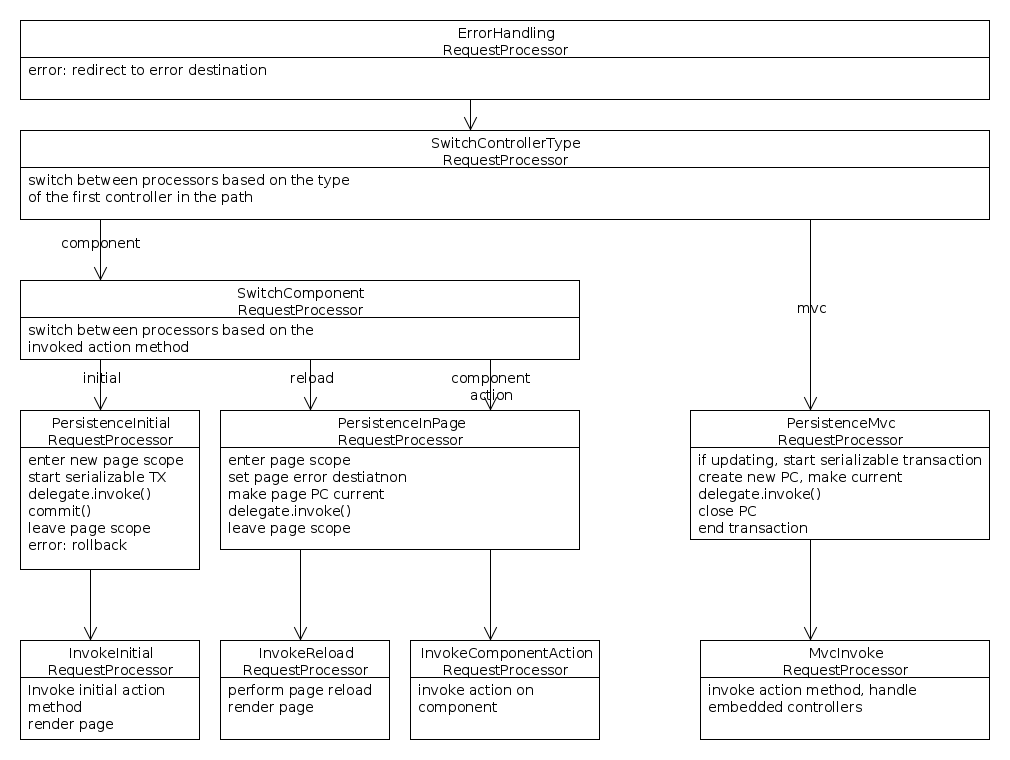
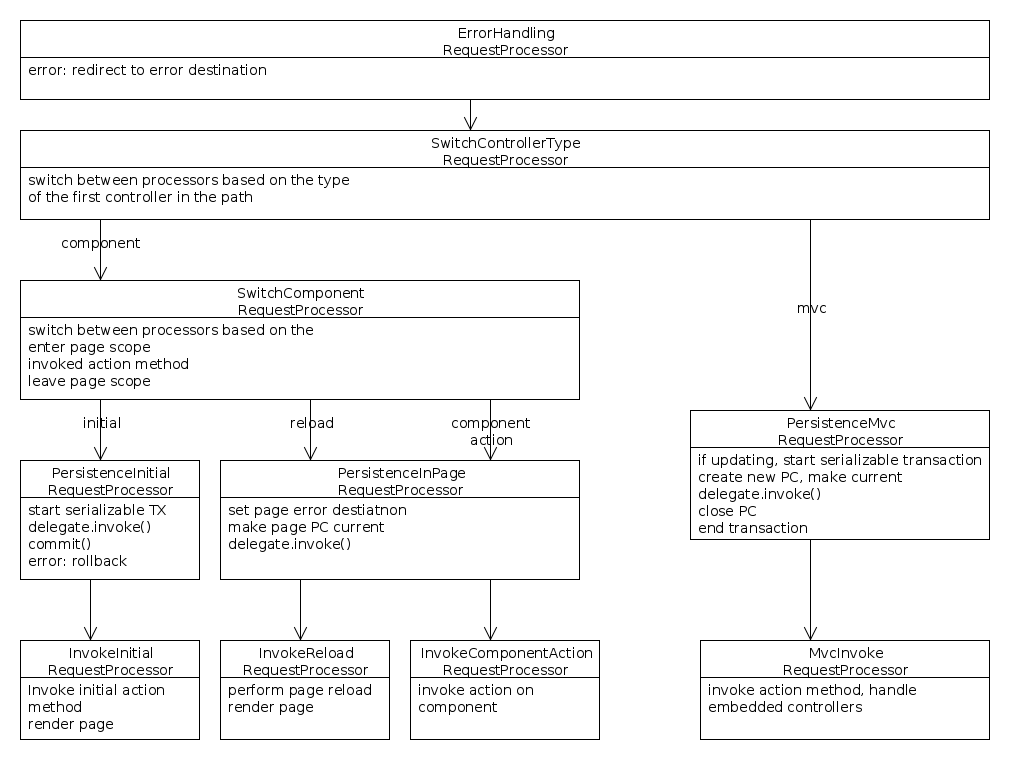
work on component request handling

Changed region(s): [[0.2149, 0.4842, 0.5218, 0.7263], [0.0307, 0.4539, 0.1842, 0.7566]]

diff --git a/web/component/src/main/java/laf/component/defaultConfiguration/DefaultComponentConfiguration.java b/web/component/src/main/java/laf/component/defaultConfiguration/DefaultComponentConfiguration.java
@@ -6,23 +6,10 @@ import java.util.ArrayList;
 import javax.enterprise.inject.Instance;
 import javax.inject.Inject;
 
-import laf.component.ComponentActionRequestProcessorCP;
-import laf.component.ComponentController;
-import laf.component.ComponentControllerDiscoverer;
-import laf.component.InitialRequestProcessorCP;
-import laf.component.ReloadRequestProcessorCP;
-import laf.component.SwitchComponentRequestProcessor;
-import laf.component.basic.html.CButtonHtmlTemplate;
-import laf.component.basic.html.CPageHtmlTemplate;
-import laf.component.basic.html.CReloadHtmlTemplate;
-import laf.component.basic.html.CRenderHtmlTemplate;
-import laf.component.basic.html.CTextFieldHtmlTemplate;
-import laf.component.basic.html.CTextHtmlTemplate;
+import laf.component.*;
+import laf.component.basic.html.*;
 import laf.component.html.HtmlPageResultRenderer;
-import laf.component.html.template.HtmlTemplate;
-import laf.component.html.template.HtmlTemplateFactories;
-import laf.component.html.template.HtmlTemplateFactory;
-import laf.component.html.template.HtmlTemplateFactoryImpl;
+import laf.component.html.template.*;
 import laf.configuration.ConfigurationDefiner;
 import laf.configuration.ExtendConfiguration;
 import laf.controllerInfo.ControllerDiscoverers;
@@ -37,7 +24,7 @@ public class DefaultComponentConfiguration implements ConfigurationDefiner {
 	@ExtendConfiguration
 	public void produce(ResultRenderers renderers) {
 		renderers.get()
-				.add(instance.select(HtmlPageResultRenderer.class).get());
+		.add(instance.select(HtmlPageResultRenderer.class).get());
 	}
 
 	@ExtendConfiguration
@@ -52,15 +39,15 @@ public class DefaultComponentConfiguration implements ConfigurationDefiner {
 				instance.select(SwitchComponentRequestProcessor.class).get());
 	}
 
-	public void produce(InitialRequestProcessorCP map) {
+	public void produce(InitialRequestProcessorCP val) {
 
 	}
 
-	public void produce(ReloadRequestProcessorCP map) {
+	public void produce(ReloadRequestProcessorCP val) {
 
 	}
 
-	public void produce(ComponentActionRequestProcessorCP map) {
+	public void produce(ComponentActionRequestProcessorCP val) {
 
 	}
 

diff --git a/web/component/src/main/java/laf/component/PersistenceInitialRequestProcessor.java b/web/component/src/main/java/laf/component/PersistenceInitialRequestProcessor.java
@@ -1,0 +1,65 @@
+package laf.component;
+
+import javax.inject.Inject;
+import javax.transaction.*;
+
+import laf.actionPath.ActionPath;
+import laf.base.ActionResult;
+import laf.base.Val;
+import laf.component.pageScope.PageScoped;
+import laf.http.requestMapping.parameterValueProvider.ParameterValueProvider;
+import laf.persistence.LafPersistenceContextManager;
+import laf.persistence.LafPersistenceHolder;
+import laf.requestProcessing.DelegatingRequestProcessor;
+
+import org.apache.log4j.Logger;
+
+public class PersistenceInitialRequestProcessor extends
+DelegatingRequestProcessor {
+
+	@Inject
+	Logger log;
+
+	@Inject
+	LafPersistenceContextManager manager;
+
+	@Inject
+	@PageScoped
+	LafPersistenceHolder holder;
+
+	@Inject
+	UserTransaction trx;
+
+	@Override
+	public ActionResult process(final ActionPath<ParameterValueProvider> path) {
+		final Val<ActionResult> result = new Val<>();
+		try {
+			trx.begin();
+			manager.withPersistenceHolder(holder, new Runnable() {
+
+				@Override
+				public void run() {
+					result.set(getDelegate().process(path));
+				}
+			});
+			trx.commit();
+			return result.get();
+		} catch (NotSupportedException | SystemException
+				| IllegalStateException | SecurityException
+				| HeuristicMixedException | HeuristicRollbackException
+				| RollbackException e) {
+			throw new RuntimeException(e);
+		} finally {
+			try {
+				if (trx.getStatus() == Status.STATUS_ACTIVE
+						|| trx.getStatus() == Status.STATUS_MARKED_ROLLBACK) {
+					trx.rollback();
+				}
+			} catch (IllegalStateException | SecurityException
+					| SystemException e) {
+				log.error("error while rolling back transaction", e);
+			}
+		}
+	}
+
+}

diff --git a/web/component/src/main/java/laf/component/SwitchComponentRequestProcessorBase.java b/web/component/src/main/java/laf/component/SwitchComponentRequestProcessorBase.java
@@ -1,23 +1,49 @@
 package laf.component;
 
+import javax.inject.Inject;
+
 import laf.actionPath.ActionPath;
 import laf.base.ActionResult;
+import laf.component.pageScope.PageScopeManager;
 import laf.http.requestMapping.parameterValueProvider.ParameterValueProvider;
 import laf.requestProcessing.RequestProcessor;
 
 public abstract class SwitchComponentRequestProcessorBase implements
-		RequestProcessor {
+RequestProcessor {
+
+	@Inject
+	PageScopeManager pageScopeManager;
 
 	@Override
 	public ActionResult process(ActionPath<ParameterValueProvider> path) {
 		String name = path.getFirst().getMethodInfo().getName();
 
+		Long pageId = null;
+		RequestProcessor delegate;
+
+		// determine page id and delegate processor
 		if (ComponentConstants.reloadMethodName.equals(name)) {
-			return getReloadProcessor().process(path);
+			pageId = (Long) path.getFirst().getArguments().get(0).get();
+			delegate = getReloadProcessor();
 		} else if (ComponentConstants.componentActionMethodName.equals(name)) {
-			return getComponentActionProcessor().process(path);
+			pageId = (Long) path.getFirst().getArguments().get(0).get();
+			delegate = getComponentActionProcessor();
 		} else {
-			return getInitialProcessor().process(path);
+			delegate = getInitialProcessor();
+			pageScopeManager.enterNew();
+		}
+
+		// enter the page scope, if it did not happen already (initial processor
+		// case)
+		if (pageId != null) {
+			pageScopeManager.enter(pageId);
+		}
+
+		// run the delegate and leave the page scope
+		try {
+			return delegate.process(path);
+		} finally {
+			pageScopeManager.leave();
 		}
 	}
 

diff --git a/web/base/src/main/java/laf/persistence/LafEntityManager.java b/web/base/src/main/java/laf/persistence/LafEntityManager.java
@@ -16,6 +16,8 @@ import javax.persistence.metamodel.Metamodel;
 class LafEntityManager implements EntityManager {
 
 	public static class NoPersistenceContextException extends RuntimeException {
+		private static final long serialVersionUID = 1L;
+
 		public NoPersistenceContextException() {
 			super("No Persistence Context is active. Use "
 					+ LafPersistenceContextManager.class.getSimpleName()

diff --git a/web/base/src/main/java/laf/persistence/LafPersistenceHolder.java b/web/base/src/main/java/laf/persistence/LafPersistenceHolder.java
@@ -6,6 +6,10 @@ import java.util.Map;
 import javax.annotation.PreDestroy;
 import javax.persistence.EntityManager;
 
+/**
+ * Represents a map of {@link LafEntityManagerFactory}s to the corresponding
+ * {@link EntityManager}s
+ */
 public class LafPersistenceHolder {
 
 	private Map<LafEntityManagerFactory, EntityManager> entityManagers = new HashMap<LafEntityManagerFactory, EntityManager>();

diff --git a/web/base/src/main/java/laf/persistence/LafEntityManagerFactory.java b/web/base/src/main/java/laf/persistence/LafEntityManagerFactory.java
@@ -2,6 +2,9 @@ package laf.persistence;
 
 import javax.persistence.EntityManager;
 
+/**
+ *
+ */
 public interface LafEntityManagerFactory {
 
 	EntityManager createEntityManager();
